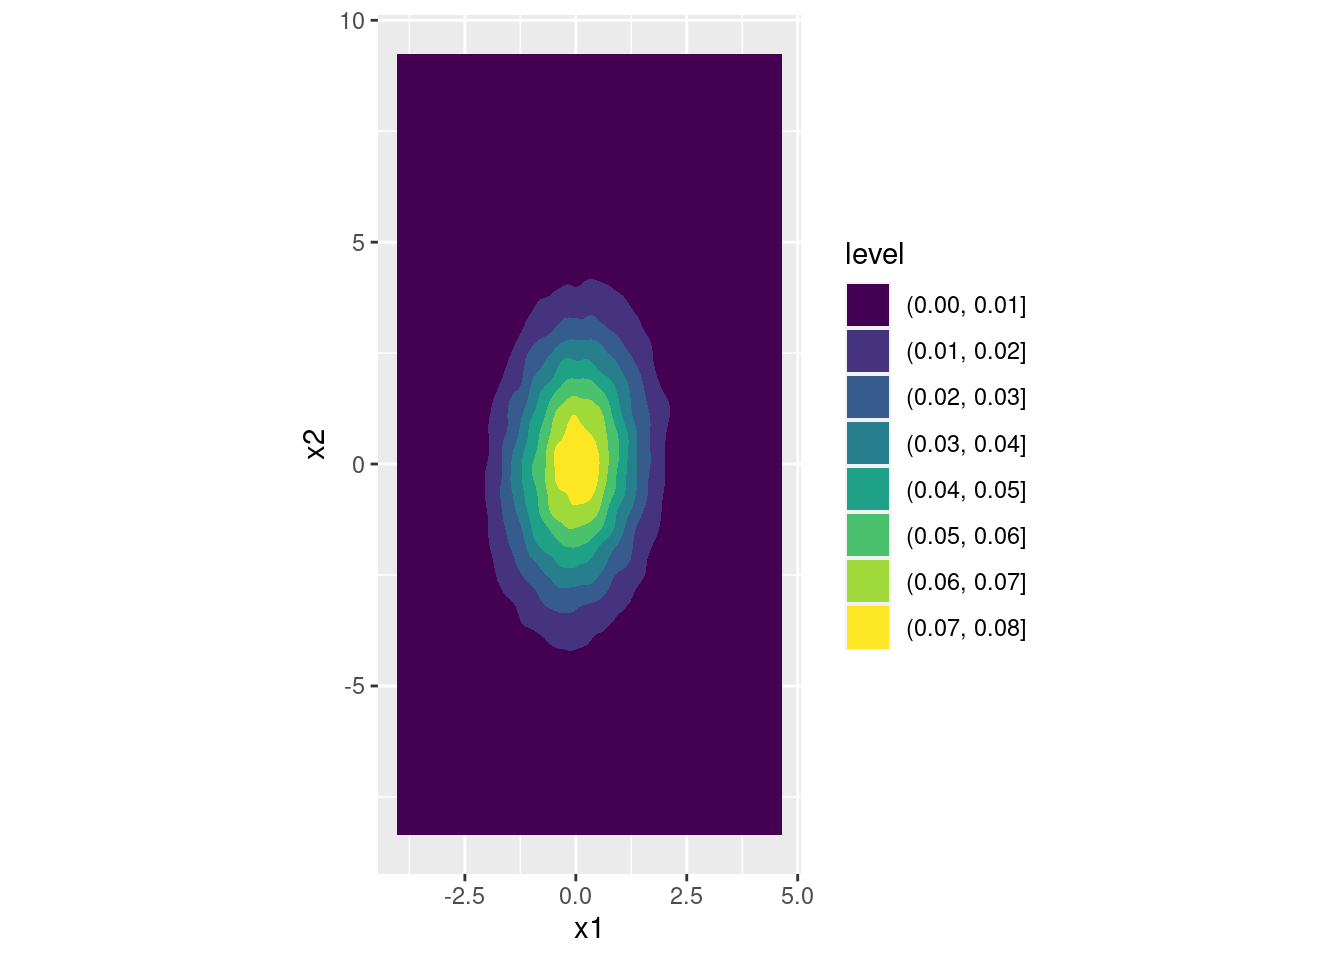
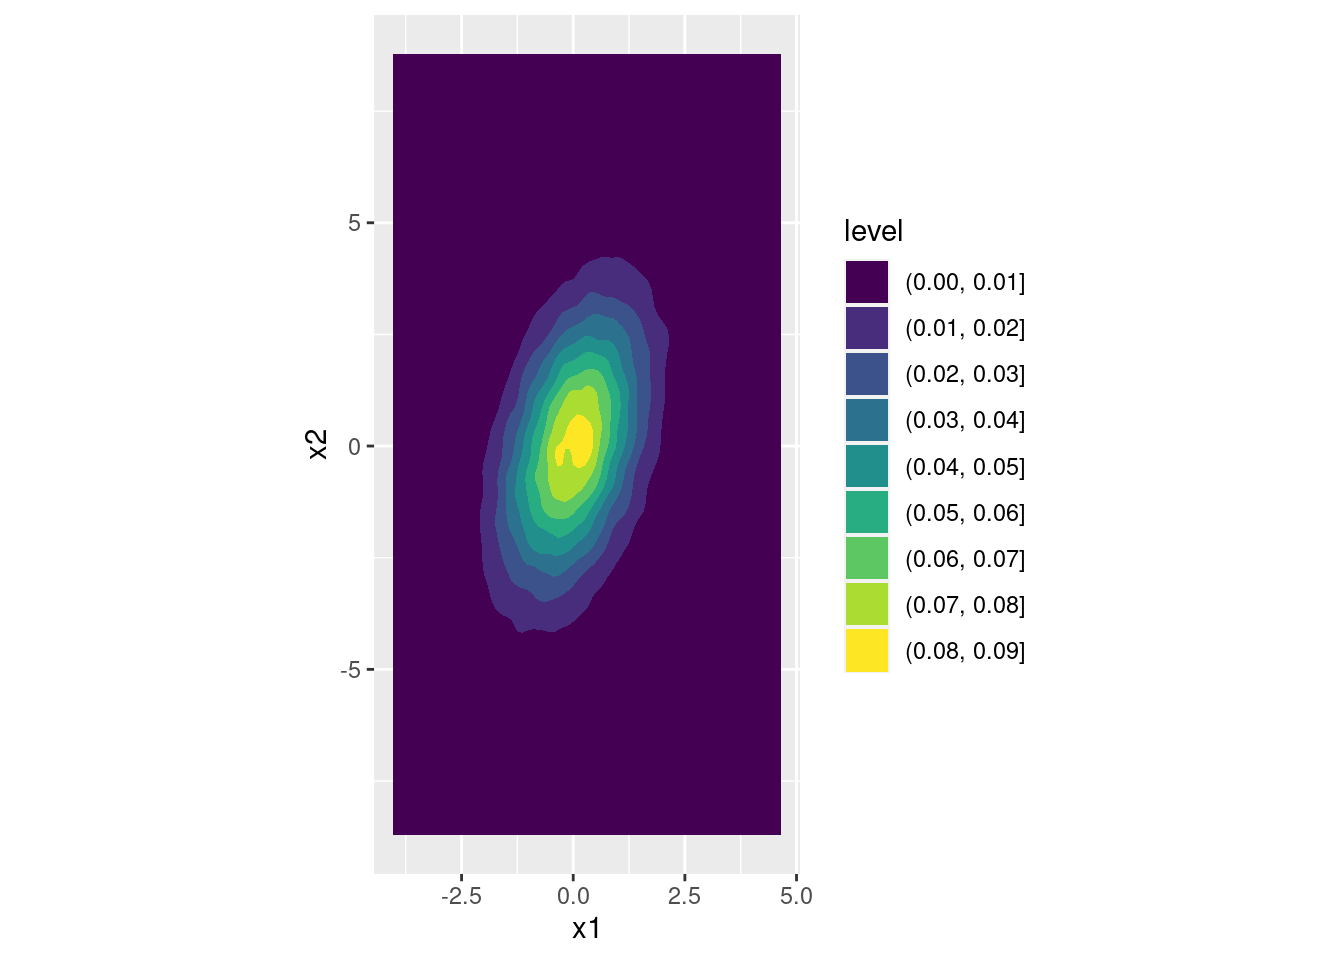
fix typos in solutions

diff --git a/docs/the-normal-distribution.html b/docs/the-normal-distribution.html
@@ -712,6 +712,10 @@ Show Solution
 <ol style="list-style-type: decimal">
 <li>Continuing from the exercise from above, create both marginal and joint kernel density plots of <code>mom.iq</code> and <code>kid.score</code>. Do these appear to be normally distributed?</li>
 </ol>
+<div class="webex-solution">
+<button>
+Show Solution
+</button>
 <div class="sourceCode" id="cb83"><pre class="sourceCode r"><code class="sourceCode r"><span id="cb83-1"><a href="the-normal-distribution.html#cb83-1" aria-hidden="true" tabindex="-1"></a><span class="fu">ggplot</span>(kids) <span class="sc">+</span></span>
 <span id="cb83-2"><a href="the-normal-distribution.html#cb83-2" aria-hidden="true" tabindex="-1"></a>  <span class="fu">geom_density</span>(<span class="fu">aes</span>(<span class="at">x =</span> mom.iq), <span class="at">fill =</span> <span class="st">&#39;black&#39;</span>, <span class="at">alpha =</span> <span class="fl">0.5</span>)</span></code></pre></div>
 <p><img src="erm-book_files/figure-html/unnamed-chunk-34-1.png" width="672" /></p>
@@ -720,8 +724,11 @@ Show Solution
 <p><img src="erm-book_files/figure-html/unnamed-chunk-34-2.png" width="672" /></p>
 <div class="sourceCode" id="cb85"><pre class="sourceCode r"><code class="sourceCode r"><span id="cb85-1"><a href="the-normal-distribution.html#cb85-1" aria-hidden="true" tabindex="-1"></a><span class="fu">ggplot</span>(kids) <span class="sc">+</span></span>
 <span id="cb85-2"><a href="the-normal-distribution.html#cb85-2" aria-hidden="true" tabindex="-1"></a>  <span class="fu">geom_density2d_filled</span>(<span class="fu">aes</span>(<span class="at">x =</span> mom.iq, <span class="at">y =</span> kid.score)) </span></code></pre></div>
-<p><img src="erm-book_files/figure-html/unnamed-chunk-34-3.png" width="672" />
-2. Reading from the color scale, the height of the "peak" in each of the two-dimensional kernel density plots from above was around 0.16. Why is this?</p>
+<p><img src="erm-book_files/figure-html/unnamed-chunk-34-3.png" width="672" /></p>
+</div>
+<ol start="2" style="list-style-type: decimal">
+<li>Reading from the color scale, the height of the "peak" in each of the two-dimensional kernel density plots from above was around 0.16. Why is this?</li>
+</ol>
 <div class="webex-solution">
 <button>
 Show Solution
@@ -982,7 +989,7 @@ Show Solution
 <div class="sourceCode" id="cb113"><pre class="sourceCode r"><code class="sourceCode r"><span id="cb113-1"><a href="the-normal-distribution.html#cb113-1" aria-hidden="true" tabindex="-1"></a>s1 <span class="ot">&lt;-</span> <span class="dv">1</span></span>
 <span id="cb113-2"><a href="the-normal-distribution.html#cb113-2" aria-hidden="true" tabindex="-1"></a>s2 <span class="ot">&lt;-</span> <span class="dv">2</span></span>
 <span id="cb113-3"><a href="the-normal-distribution.html#cb113-3" aria-hidden="true" tabindex="-1"></a>r <span class="ot">&lt;-</span> <span class="fl">0.4</span></span>
-<span id="cb113-4"><a href="the-normal-distribution.html#cb113-4" aria-hidden="true" tabindex="-1"></a>s12 <span class="ot">&lt;-</span> r <span class="sc">/</span> (s1 <span class="sc">*</span> s2)</span>
+<span id="cb113-4"><a href="the-normal-distribution.html#cb113-4" aria-hidden="true" tabindex="-1"></a>s12 <span class="ot">&lt;-</span> r <span class="sc">*</span> (s1 <span class="sc">*</span> s2)</span>
 <span id="cb113-5"><a href="the-normal-distribution.html#cb113-5" aria-hidden="true" tabindex="-1"></a>A <span class="ot">&lt;-</span> <span class="fu">matrix</span>(<span class="fu">c</span>(s1, <span class="dv">0</span>,</span>
 <span id="cb113-6"><a href="the-normal-distribution.html#cb113-6" aria-hidden="true" tabindex="-1"></a>              s12 <span class="sc">/</span> s1, <span class="fu">sqrt</span>(s2<span class="sc">^</span><span class="dv">2</span> <span class="sc">-</span> s12<span class="sc">^</span><span class="dv">2</span> <span class="sc">/</span> s1<span class="sc">^</span><span class="dv">2</span>)), </span>
 <span id="cb113-7"><a href="the-normal-distribution.html#cb113-7" aria-hidden="true" tabindex="-1"></a>            <span class="at">byrow =</span> <span class="cn">TRUE</span>, <span class="at">nrow =</span> <span class="dv">2</span>, <span class="at">ncol =</span> <span class="dv">2</span>)</span>
@@ -990,12 +997,12 @@ Show Solution
 <span id="cb113-9"><a href="the-normal-distribution.html#cb113-9" aria-hidden="true" tabindex="-1"></a><span class="fu">colnames</span>(x) <span class="ot">&lt;-</span> <span class="fu">c</span>(<span class="st">&#39;x1&#39;</span>, <span class="st">&#39;x2&#39;</span>)</span>
 <span id="cb113-10"><a href="the-normal-distribution.html#cb113-10" aria-hidden="true" tabindex="-1"></a><span class="fu">cov</span>(x)</span></code></pre></div>
 <pre><code>##           x1        x2
-## x1 1.0063783 0.2022186
-## x2 0.2022186 4.0151808</code></pre>
+## x1 1.0063783 0.8059712
+## x2 0.8059712 4.0178160</code></pre>
 <div class="sourceCode" id="cb115"><pre class="sourceCode r"><code class="sourceCode r"><span id="cb115-1"><a href="the-normal-distribution.html#cb115-1" aria-hidden="true" tabindex="-1"></a><span class="fu">cor</span>(x)</span></code></pre></div>
 <pre><code>##           x1        x2
-## x1 1.0000000 0.1005977
-## x2 0.1005977 1.0000000</code></pre>
+## x1 1.0000000 0.4008149
+## x2 0.4008149 1.0000000</code></pre>
 <div class="sourceCode" id="cb117"><pre class="sourceCode r"><code class="sourceCode r"><span id="cb117-1"><a href="the-normal-distribution.html#cb117-1" aria-hidden="true" tabindex="-1"></a><span class="fu">ggplot</span>(<span class="fu">data.frame</span>(x)) <span class="sc">+</span></span>
 <span id="cb117-2"><a href="the-normal-distribution.html#cb117-2" aria-hidden="true" tabindex="-1"></a>  <span class="fu">geom_density2d_filled</span>(<span class="fu">aes</span>(x1, x2)) <span class="sc">+</span></span>
 <span id="cb117-3"><a href="the-normal-distribution.html#cb117-3" aria-hidden="true" tabindex="-1"></a>  <span class="fu">coord_fixed</span>()  <span class="co"># forces the aspect ratio to be 1:1 so you see the ellipses!</span></span></code></pre></div>
@@ -1084,7 +1091,7 @@ Show Solution
 <div class="sourceCode" id="cb123"><pre class="sourceCode r"><code class="sourceCode r"><span id="cb123-1"><a href="the-normal-distribution.html#cb123-1" aria-hidden="true" tabindex="-1"></a><span class="co"># Add solution code here!</span></span></code></pre></div>
 </div>
 <ol start="4" style="list-style-type: decimal">
-<li>In the discussion above I claimed that <span class="math inline">\(\text{Var}(Y) = \mathbf{v}&#39;\boldsymbol{Sigma}\text{v}\)</span>. Work out the algebra to establish this result.</li>
+<li>In the discussion above I claimed that <span class="math inline">\(\text{Var}(Y) = \mathbf{v}&#39;\boldsymbol{\Sigma}\text{v}\)</span>. Work out the algebra to establish this result.</li>
 </ol>
 <div class="webex-solution">
 <button>
